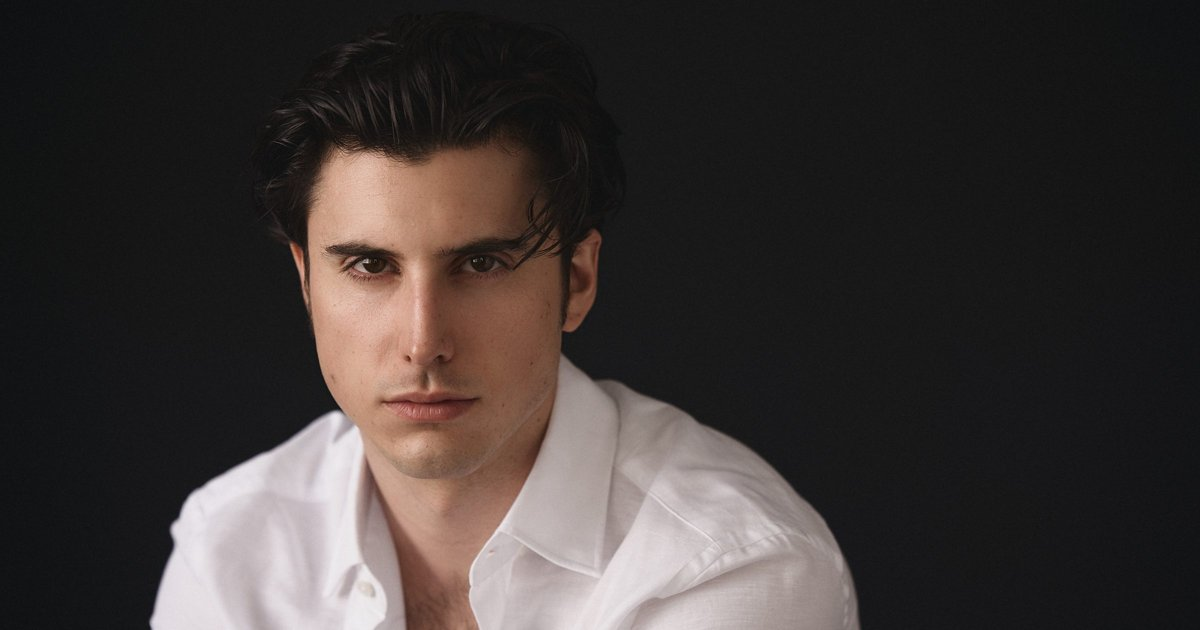
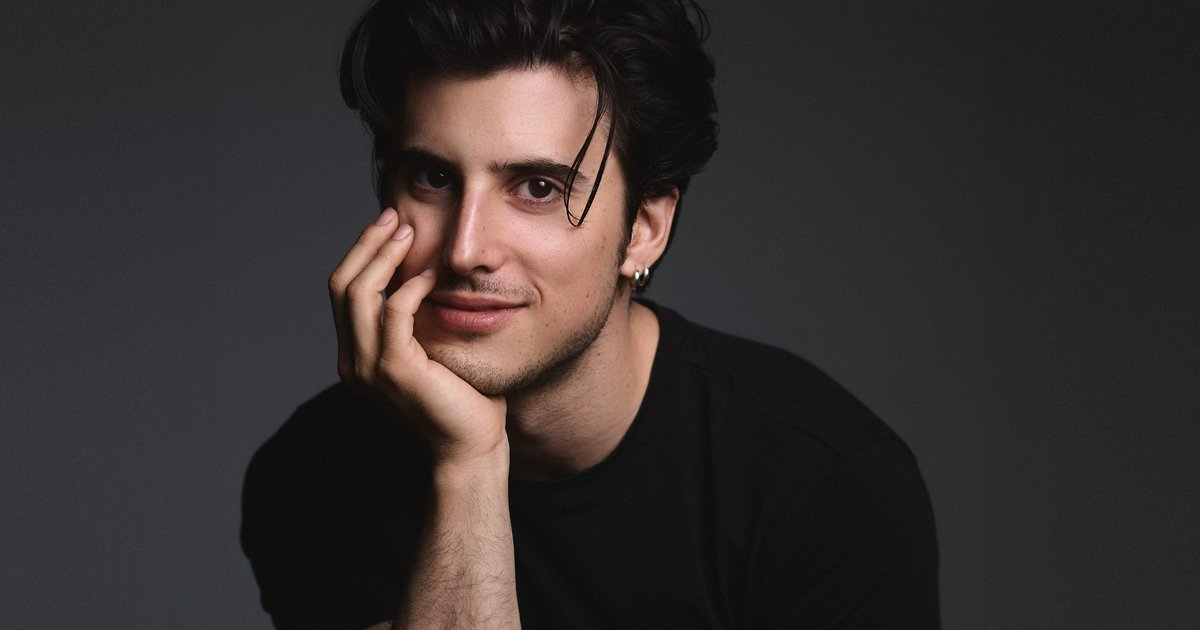
Nueva foto de portada (apoyado en la mano), fondo ampliado en horizontal
Claude-Session: https://claude.ai/code/session_01LHxFx3MZepTYWJoVkpbo3q

diff --git a/index.html b/index.html
@@ -74,7 +74,7 @@ const DATOS = {
   // Foto HORIZONTAL grande de cabecera (como en Calabuch). Ideal 2400 x 1350 px.
   portada: "fotos/pablo-gar-actor-portada.jpg",
   // Qué parte de la foto se prioriza al recortar: "50% 20%" = centro, zona alta (la cara)
-  portada_posicion: "50% 8%",
+  portada_posicion: "50% 0%",
 
   contacto: {
     email: "pablogar.actor@gmail.com",
